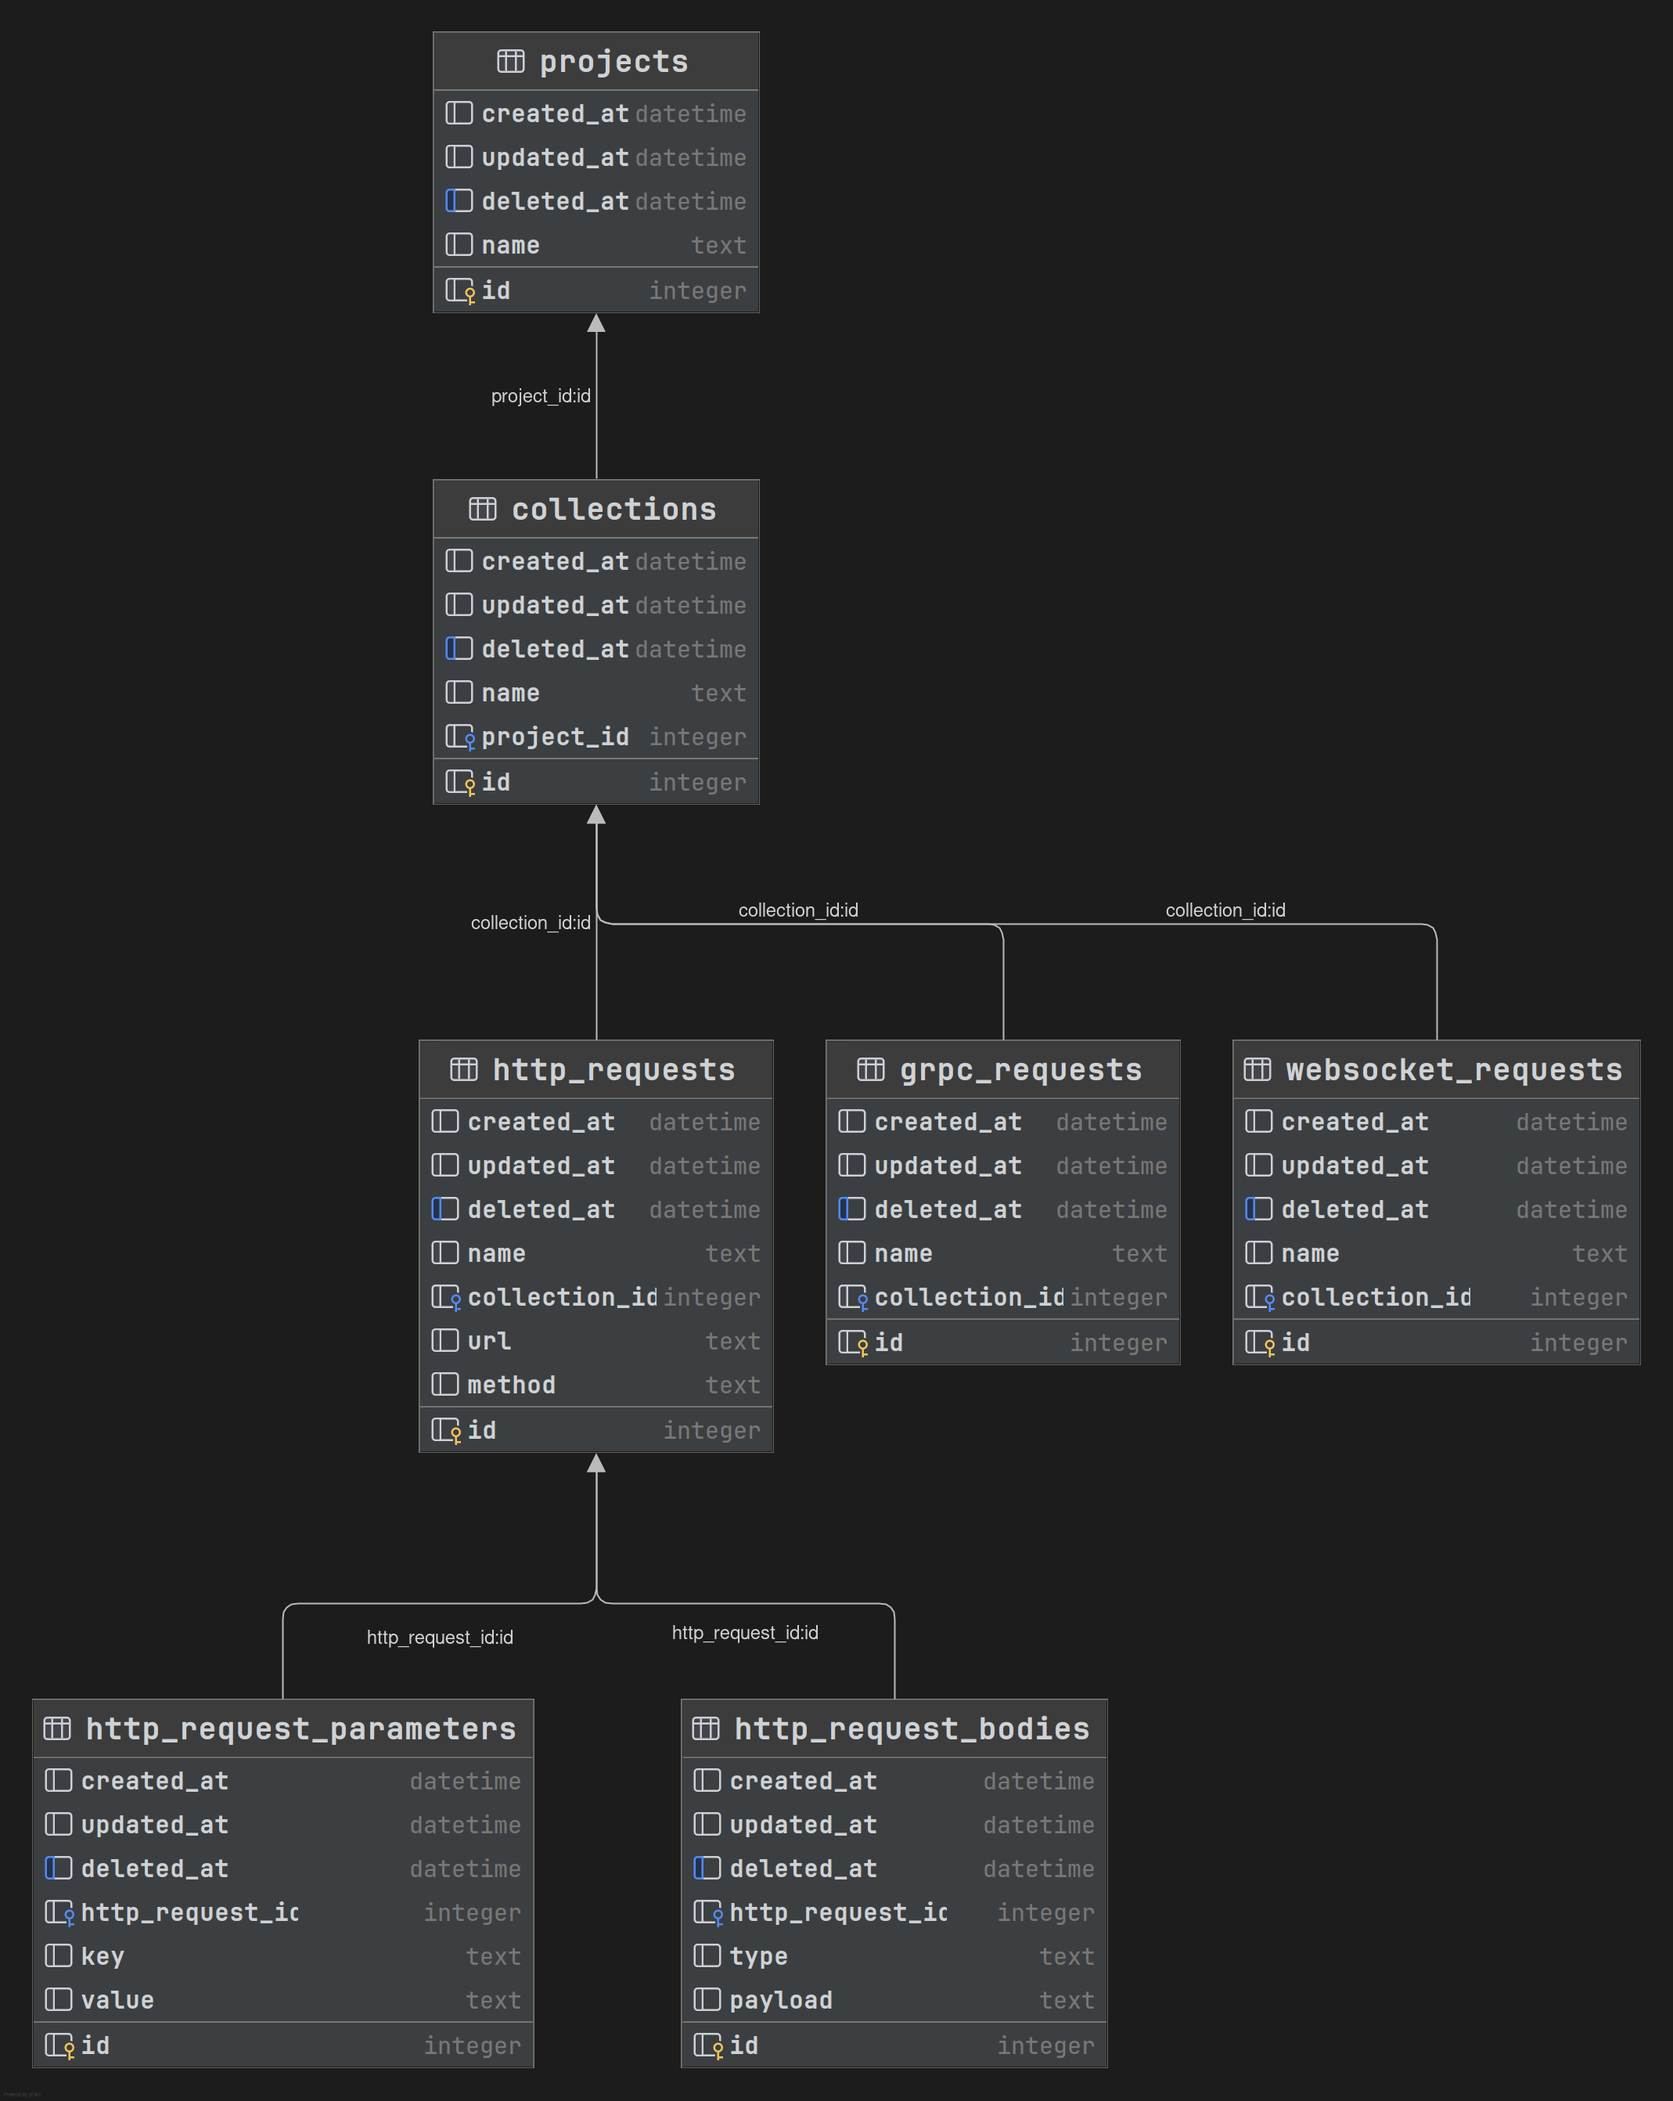
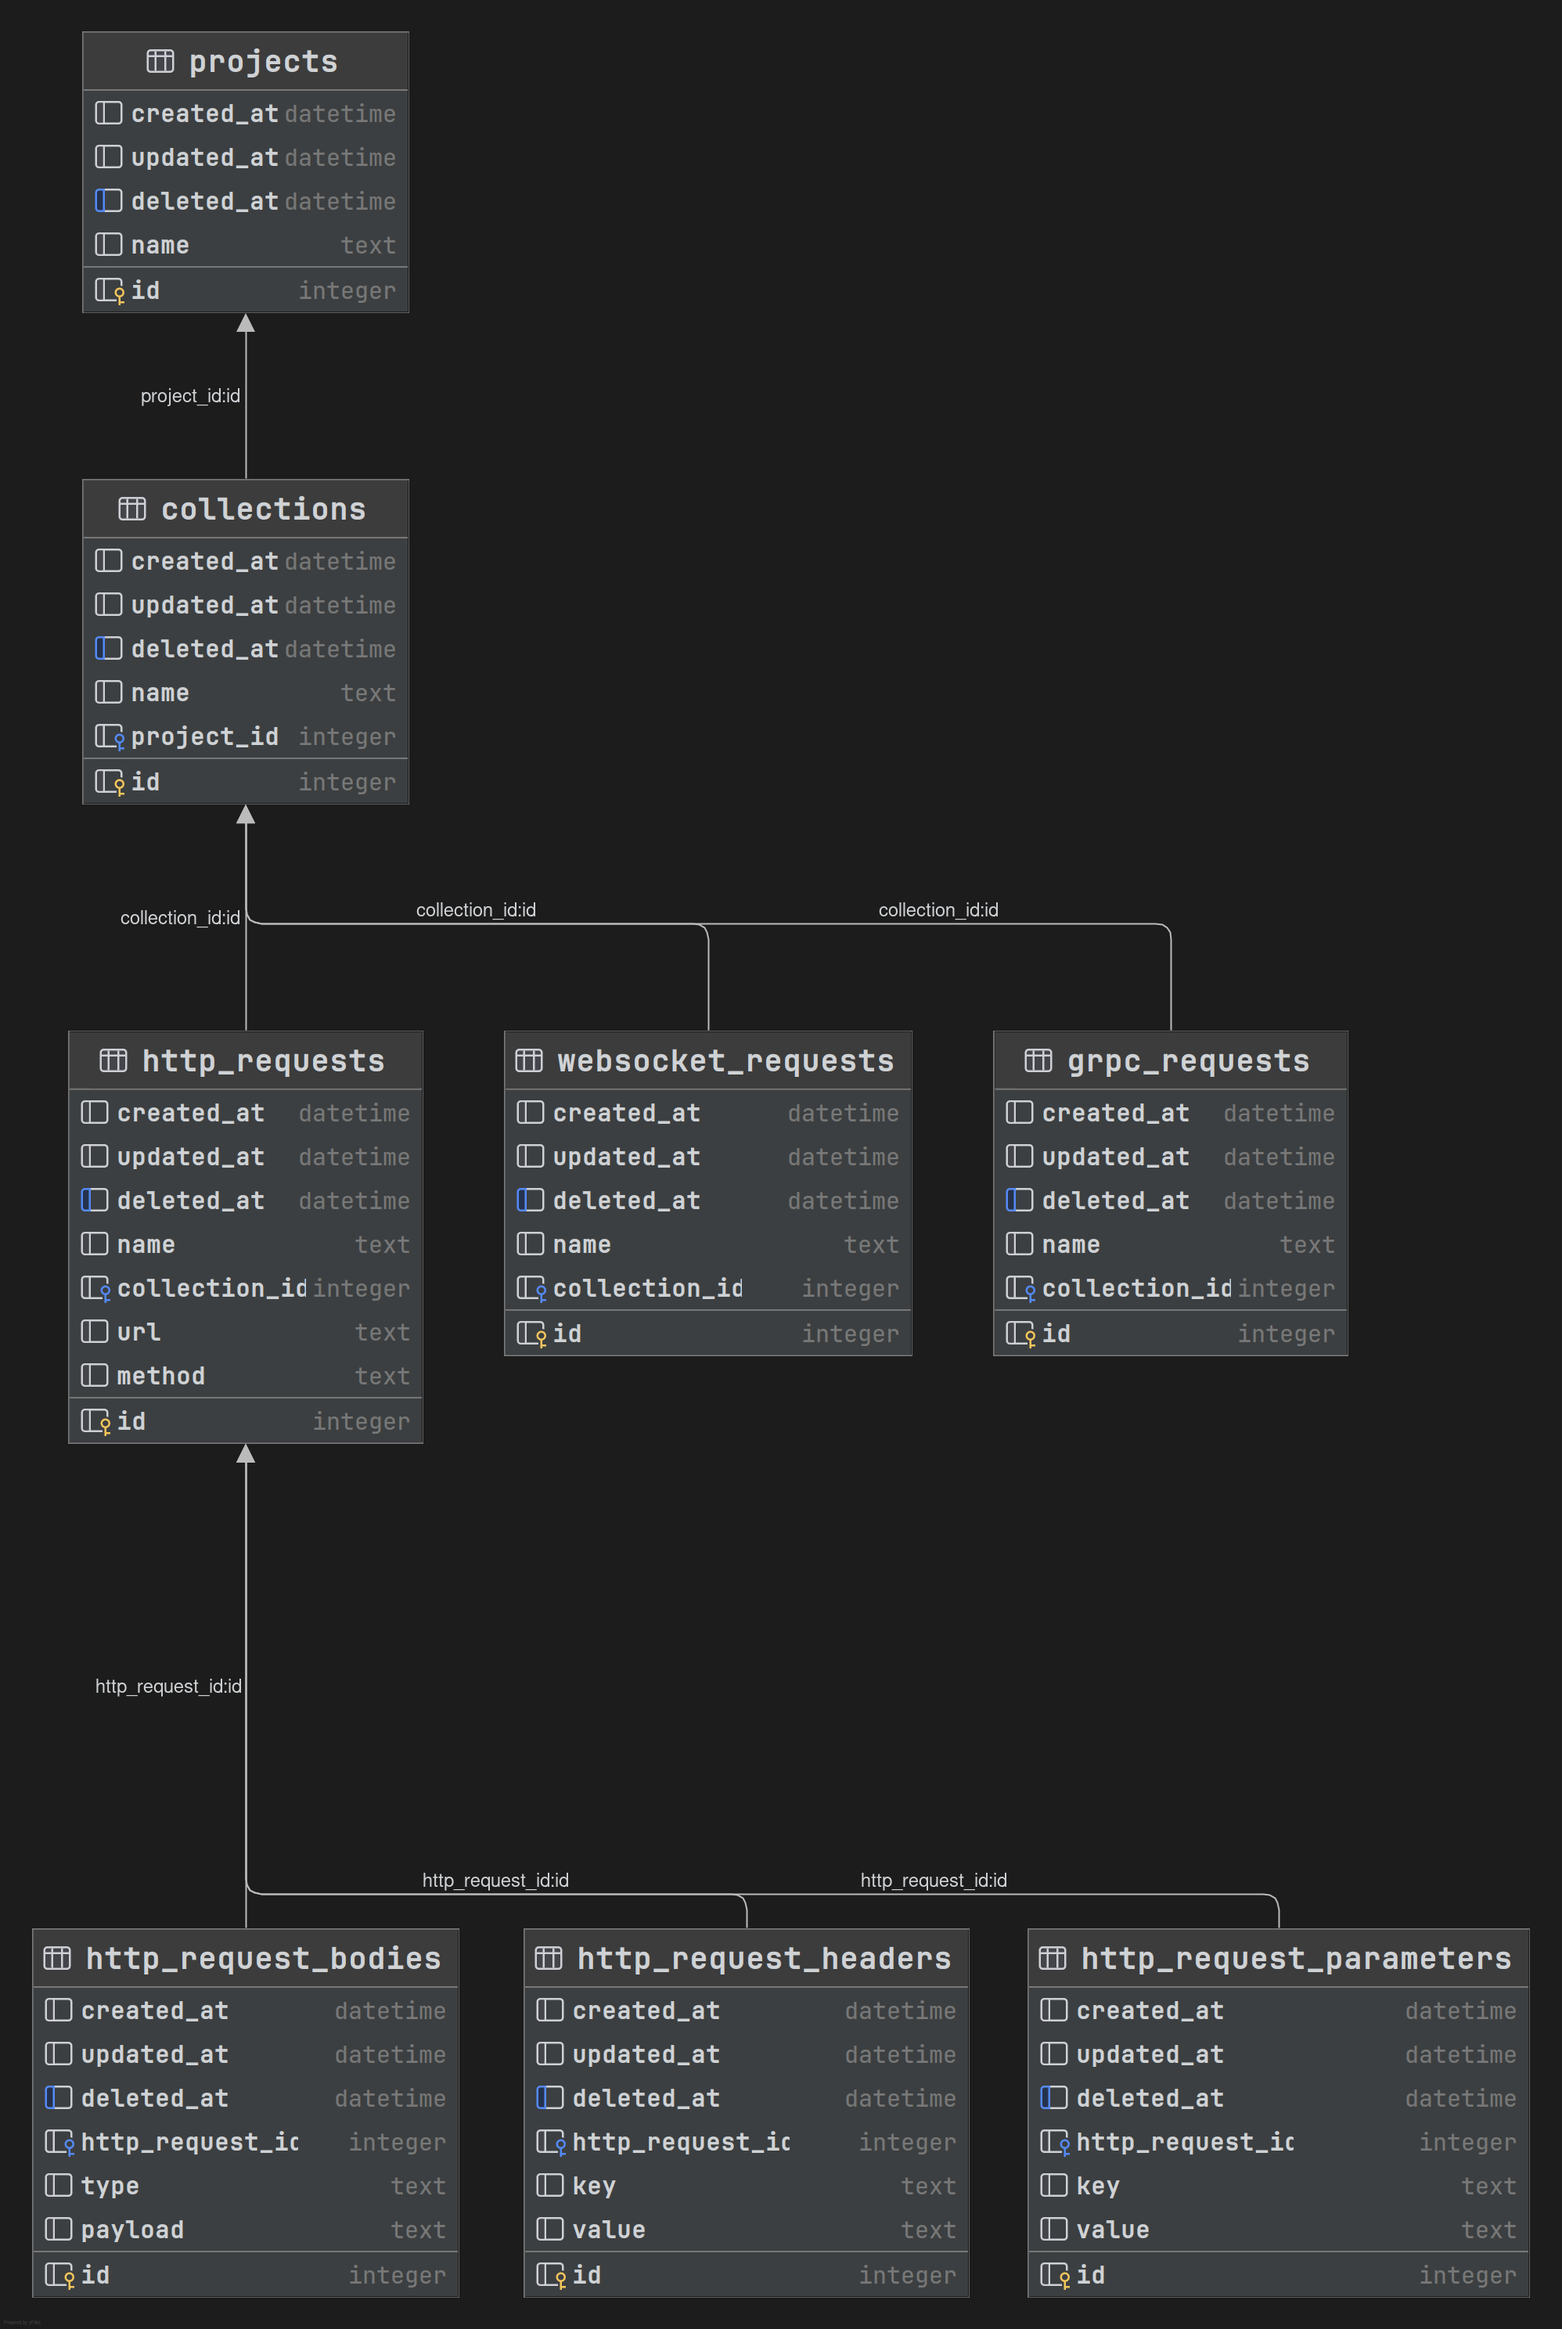
request: implement header

diff --git a/src/database/http_request.go b/src/database/http_request.go
@@ -13,6 +13,7 @@ type HttpRequest struct {
 	Method               string `gorm:"default:GET"`
 	HttpRequestBody      HttpRequestBody
 	HttpRequestParameter []HttpRequestParameter
+	HttpRequestHeader    []HttpRequestHeader
 }
 
 type HttpRequestBody struct {
@@ -23,6 +24,13 @@ type HttpRequestBody struct {
 }
 
 type HttpRequestParameter struct {
+	gorm.Model
+	HttpRequestID uint
+	Key           string
+	Value         string
+}
+
+type HttpRequestHeader struct {
 	gorm.Model
 	HttpRequestID uint
 	Key           string
@@ -94,6 +102,24 @@ func (H *HttpRequestRepository) CreateParameter(httpRequestParameter *HttpReques
 
 func (H *HttpRequestRepository) DeleteParameter(httpRequestParameter *HttpRequestParameter) error {
 	err := H.database.Delete(httpRequestParameter).Error
+	if err != nil {
+		return err
+	}
+
+	return nil
+}
+
+func (H *HttpRequestRepository) CreateHeader(httpRequestHeader *HttpRequestHeader) (*HttpRequestHeader, error) {
+	err := H.database.Create(httpRequestHeader).Error
+	if err != nil {
+		return nil, err
+	}
+
+	return httpRequestHeader, nil
+}
+
+func (H *HttpRequestRepository) DeleteHeader(httpRequestHeader *HttpRequestHeader) error {
+	err := H.database.Delete(httpRequestHeader).Error
 	if err != nil {
 		return err
 	}

diff --git a/src/database/client.go b/src/database/client.go
@@ -32,6 +32,7 @@ func NewClient(userDir configuration.UserDir) *gorm.DB {
 
 func AutoMigrate(databaseClient *gorm.DB) {
 	err := databaseClient.AutoMigrate(
+		&HttpRequestHeader{},
 		&HttpRequestParameter{},
 		&HttpRequestBody{},
 		&HttpRequest{},
